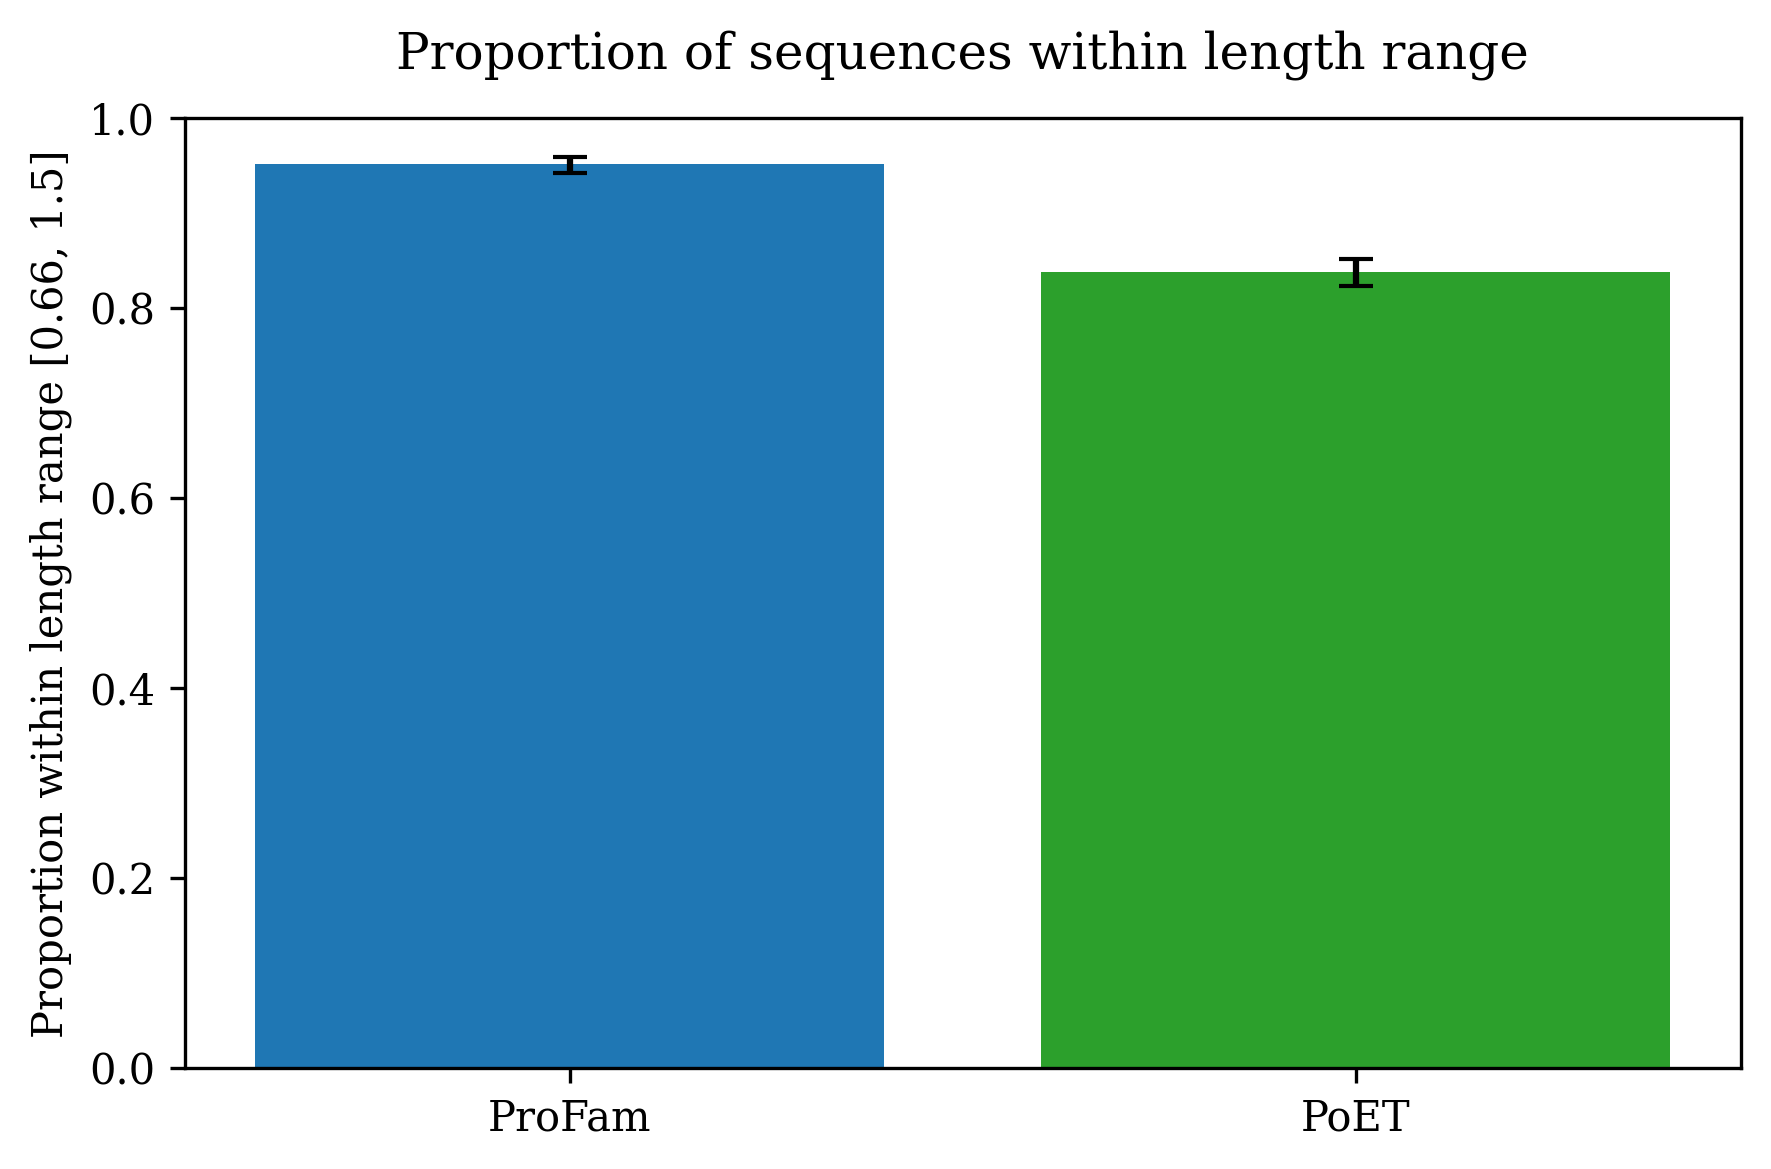
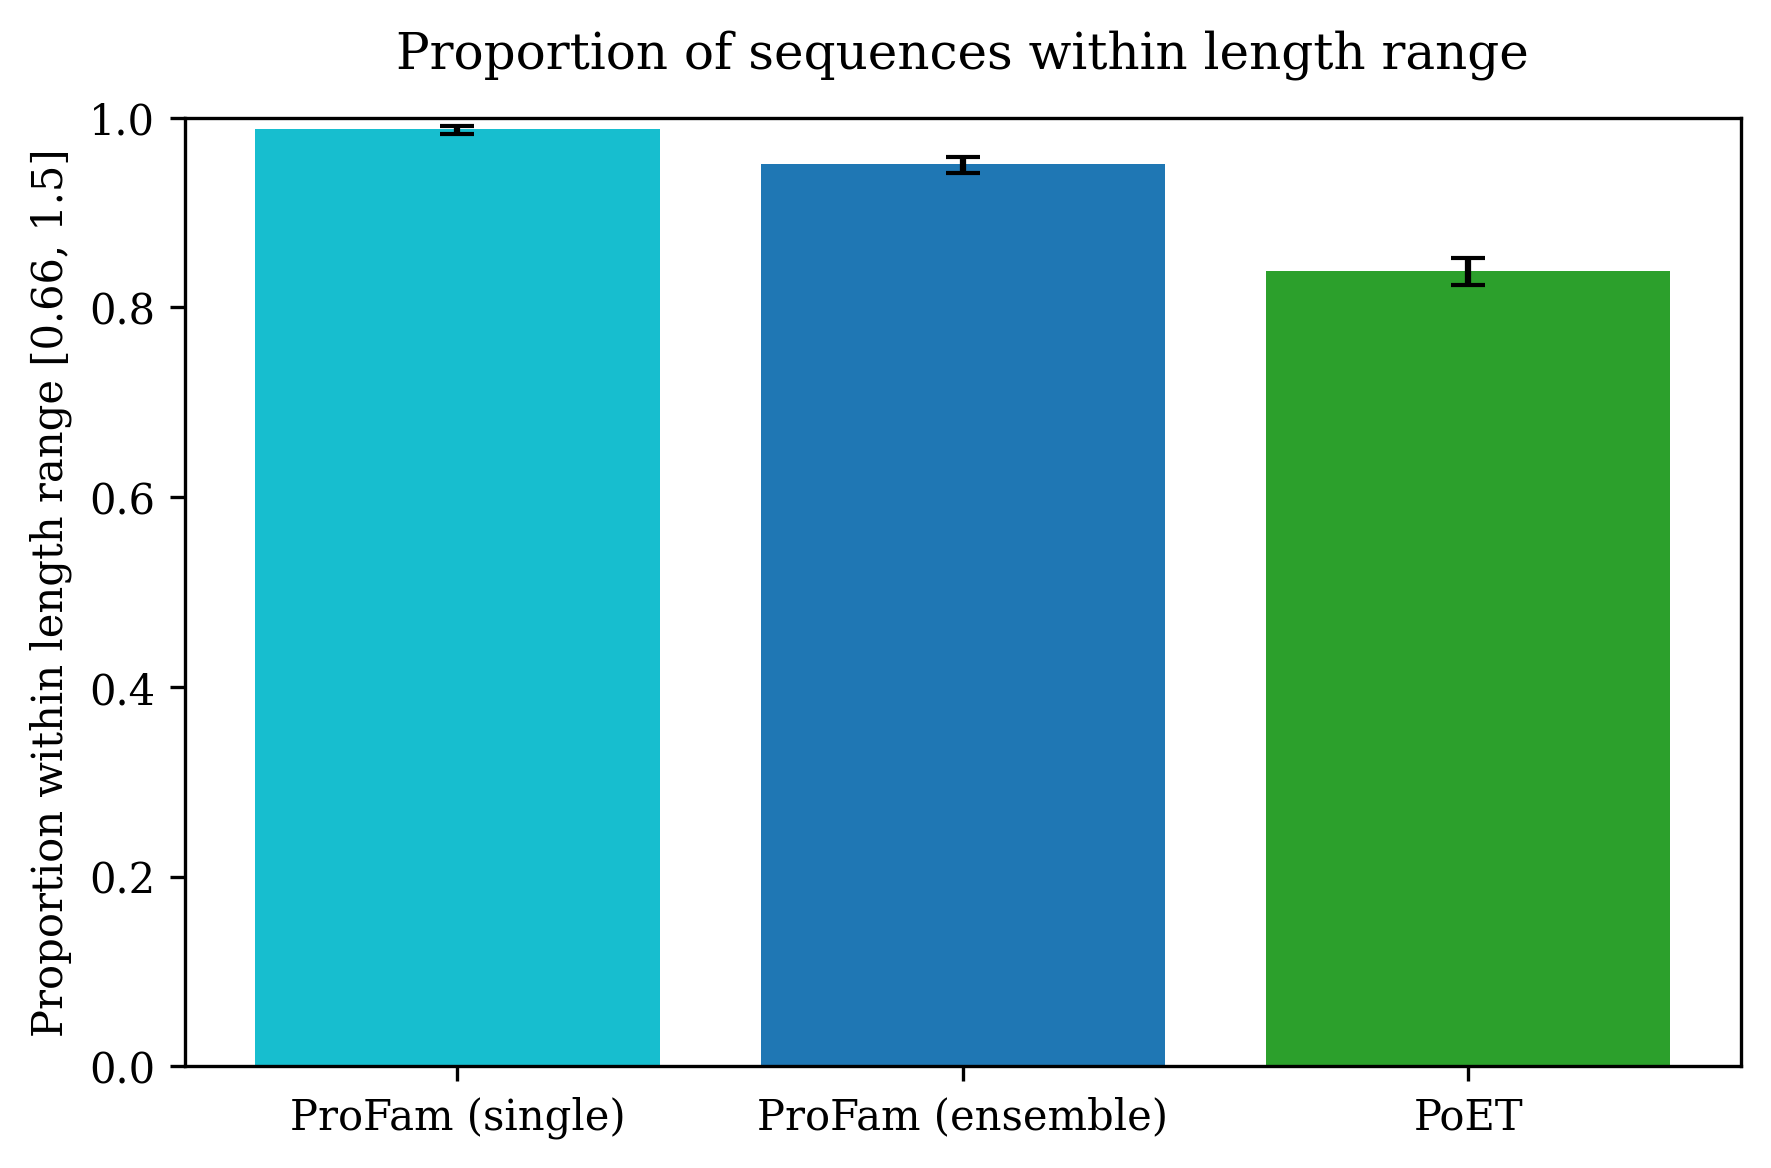
plotting scripts

diff --git a/scripts/evaluate_generated_sequences.py b/scripts/evaluate_generated_sequences.py
@@ -83,14 +83,14 @@ def evaluate_generated_sequences_profam_on_ec_single_sequence():
     all_results = []
     completed_ec_nums = []
     
-    # generated_fasta_pattern = "../sampling_results/profam_ec_single_seq_synthetic_msas/*_generated.fasta"
-    # csv_save_path = "../sampling_results/profam_ec_single_seq_synthetic_msas/profam_sequence_only_evaluation_ec_single_sequence.csv"
+    generated_fasta_pattern = "../sampling_results/profam_ec_single_seq_synthetic_msas/*_generated.fasta"
+    csv_save_path = "../sampling_results/profam_ec_single_seq_synthetic_msas/profam_sequence_only_evaluation_ec_single_sequence.csv"
 
     # generated_fasta_pattern = "../sampling_results/profam_ec_multi_seq_synthetic_msas_no_ensemble/*_generated.fasta"
     # csv_save_path = "../sampling_results/profam_ec_multi_seq_synthetic_msas_no_ensemble/profam_sequence_only_evaluation_ec_multi_sequence.csv"
 
-    generated_fasta_pattern = "../sampling_results/profam_ec_multi_seq_synthetic_msas/*_generated.fasta"
-    csv_save_path = "../sampling_results/profam_ec_multi_seq_synthetic_msas/profam_sequence_only_evaluation_ec_multi_sequence_with_ensemble.csv"
+    # generated_fasta_pattern = "../sampling_results/profam_ec_multi_seq_synthetic_msas/*_generated.fasta"
+    # csv_save_path = "../sampling_results/profam_ec_multi_seq_synthetic_msas/profam_sequence_only_evaluation_ec_multi_sequence_with_ensemble.csv"
 
     if os.path.exists(csv_save_path):
         df = pd.read_csv(csv_save_path)
@@ -165,7 +165,8 @@ if __name__ == "__main__":
     # generated_pdb_pattern = "../sampling_results/colabfold_outputs/foldseek_*/gen0_unrelaxed_rank_001_alphafold2_ptm_model_1_seed_000.pdb"
     # generated_pdb_pattern = "../sampling_results/colabfold_outputs/foldseek_combined_val_test_2025_09_17_seq_sim_lt_0p5/*/*.pdb"
     # generated_pdb_pattern = "../sampling_results/poet/poet_colabfold_outputs_seq_sim_lt_0p5/*/*unrelaxed_rank_001_alphafold2_ptm_model_1_seed_000.pdb"
-    # structural_csv = "/".join(generated_pdb_pattern.split("/")[:-2]) + "/structural_evaluation.csv"
+    generated_pdb_pattern = "../sampling_results/colabfold_outputs/foldseek_combined_val_test_poet_exact_prompts_no_ensemble_2025_10_01/*/*.pdb"
+    structural_csv = "/".join(generated_pdb_pattern.split("/")[:-2]) + "/structural_evaluation.csv"
     # # structural_csv = "../sampling_results/colabfold_outputs/foldseek_combined_val_test_2025_09_17_seq_sim_lt_0p5/structural_evaluation.csv"
     # # evaluate_generated_sequences(generated_fasta_pattern, sequence_only_csv_save_path)
     # # evaluate_generated_sequences_poet()
@@ -173,104 +174,104 @@ if __name__ == "__main__":
     # # elif "/colabfold_outputs/foldseek_" in generated_pdb_pattern:
     # #     structural_csv = "../sampling_results/colabfold_outputs/profam_structural_evaluation.csv"
     # # generated_pdb_pattern = "../sampling_results/poet_colabfold_outputs/foldseek_*/generated_9_*_ptm_model_1_seed_000.pdb"
-    # gt_pdb_pattern = "../data/val_test_v2_pdbs/foldseek/*.pdb"
-    # generated_pdbs = glob.glob(generated_pdb_pattern)
-    # print(f"Found {len(generated_pdbs)} generated pdb files")
-    # if len(generated_pdbs) == 0:
-    #     raise FileNotFoundError(f"No generated pdb files found for glob: {generated_pdb_pattern}")
-    # gt_pdbs = glob.glob(gt_pdb_pattern)
-    # rows = []
-    # if os.path.exists(structural_csv):
-    #     df = pd.read_csv(structural_csv)
-    #     print(f"Found {len(df)} rows in {structural_csv}")
-    #     rows = df.to_dict(orient="records")
-    # else:
-    #     df = pd.DataFrame(columns=["generated_id"])  # Ensure df always defined
-    # for i, generated_pdb in enumerate(generated_pdbs):
-    #     print(f"Processing {i} of {len(generated_pdbs)}")
-    #     if "_test_" in generated_pdb:
-    #         split = "test"
-    #     elif "_val_" in generated_pdb:
-    #         split = "val"
-    #     elif "_random_" in generated_pdb:
-    #         split = "random"
-    #     else:
-    #         split = None
-    #     generated_id = generated_pdb.split("/")[-2].split("_")[-1]
-    #     if len(df) > 0 and generated_pdb in df["generated_pdb"].values:
+    gt_pdb_pattern = "../data/val_test_v2_pdbs/foldseek/*.pdb"
+    generated_pdbs = glob.glob(generated_pdb_pattern)
+    print(f"Found {len(generated_pdbs)} generated pdb files")
+    if len(generated_pdbs) == 0:
+        raise FileNotFoundError(f"No generated pdb files found for glob: {generated_pdb_pattern}")
+    gt_pdbs = glob.glob(gt_pdb_pattern)
+    rows = []
+    if os.path.exists(structural_csv):
+        df = pd.read_csv(structural_csv)
+        print(f"Found {len(df)} rows in {structural_csv}")
+        rows = df.to_dict(orient="records")
+    else:
+        df = pd.DataFrame(columns=["generated_id"])  # Ensure df always defined
+    for i, generated_pdb in enumerate(generated_pdbs):
+        print(f"Processing {i} of {len(generated_pdbs)}")
+        if "_test_" in generated_pdb:
+            split = "test"
+        elif "_val_" in generated_pdb:
+            split = "val"
+        elif "_random_" in generated_pdb:
+            split = "random"
+        else:
+            split = None
+        generated_id = generated_pdb.split("/")[-2].split("_")[-1]
+        if len(df) > 0 and generated_pdb in df["generated_pdb"].values:
 
-    #         print(f"Skipping {generated_id} because it already exists in {structural_csv}")
-    #         continue
-    #     prompt_fasta_path = glob.glob(f"../data/val_test_v2_fastas/foldseek/*/{generated_id}*.fasta")[0]
-    #     prompt_pdb_paths = get_pdb_paths_from_fasta_path(prompt_fasta_path, gt_pdbs)
-    #     # Load generated protein and compute mean pLDDT
-    #     try:
-    #         gen_prot = Protein.from_pdb(generated_pdb, bfactor_is_plddt=True)
-    #         mean_plddt = float(np.mean(gen_prot.plddt)) if gen_prot.plddt is not None else float("nan")
-    #     except Exception:
-    #         gen_prot = None
-    #         mean_plddt = float("nan")
+            print(f"Skipping {generated_id} because it already exists in {structural_csv}")
+            continue
+        prompt_fasta_path = glob.glob(f"../data/val_test_v2_fastas/foldseek/combined_val_test/{generated_id}*.fasta")[0]
+        prompt_pdb_paths = get_pdb_paths_from_fasta_path(prompt_fasta_path, gt_pdbs)
+        print(f"number of prompt pdb paths: {len(prompt_pdb_paths)}")
+        try:
+            gen_prot = Protein.from_pdb(generated_pdb, bfactor_is_plddt=True)
+            mean_plddt = float(np.mean(gen_prot.plddt)) if gen_prot.plddt is not None else float("nan")
+        except Exception:
+            gen_prot = None
+            mean_plddt = float("nan")
 
-    #     # Sequence identity stats (generated vs all prompt sequences)
-    #     try:
-    #         prompt_records = list(SeqIO.parse(prompt_fasta_path, "fasta"))
-    #         prompt_seqs = [str(r.seq).replace("-", "") for r in prompt_records]
-    #         gen_seq = gen_prot.sequence if gen_prot is not None else ""
-    #         seq_ids = [pairwise_sequence_identity(gen_seq, pseq) for pseq in prompt_seqs] if len(prompt_seqs) > 0 and len(gen_seq) > 0 else []
-    #     except Exception:
-    #         seq_ids = []
+        # Sequence identity stats (generated vs all prompt sequences)
+        try:
+            prompt_records = list(SeqIO.parse(prompt_fasta_path, "fasta"))
+            prompt_seqs = [str(r.seq).replace("-", "") for r in prompt_records]
+            gen_seq = gen_prot.sequence if gen_prot is not None else ""
+            seq_ids = [pairwise_sequence_identity(gen_seq, pseq) for pseq in prompt_seqs] if len(prompt_seqs) > 0 and len(gen_seq) > 0 else []
+        except Exception:
+            seq_ids = []
 
-    #     def _agg_stats(values):
-    #         arr = np.array(values, dtype=float)
-    #         if arr.size == 0:
-    #             return float("nan"), float("nan"), float("nan")
-    #         return float(np.nanmin(arr)), float(np.nanmax(arr)), float(np.nanmean(arr))
+        def _agg_stats(values):
+            arr = np.array(values, dtype=float)
+            if arr.size == 0:
+                return float("nan"), float("nan"), float("nan")
+            return float(np.nanmin(arr)), float(np.nanmax(arr)), float(np.nanmean(arr))
 
-    #     seq_id_min, seq_id_max, seq_id_mean = _agg_stats(seq_ids)
+        seq_id_min, seq_id_max, seq_id_mean = _agg_stats(seq_ids)
 
-    #     # Structural comparisons vs all prompt PDBs
-    #     tm_scores = []
-    #     lddt_scores = []
-    #     if gen_prot is not None:
-    #         for pdb_path in prompt_pdb_paths:
-    #             try:
-    #                 prompt_prot = Protein.from_pdb(pdb_path, bfactor_is_plddt=True)
-    #             except Exception:
-    #                 continue
-    #             try:
-    #                 tm_val = tm_score(gen_prot, prompt_prot)
-    #                 tm_scores.append(float(tm_val))
-    #             except Exception:
-    #                 tm_scores.append(float("nan"))
-    #             try:
-    #                 lddt_val = lddt(gen_prot, prompt_prot)
-    #                 lddt_scores.append(float(lddt_val))
-    #             except Exception:
-    #                 lddt_scores.append(float("nan"))
+        # Structural comparisons vs all prompt PDBs
+        tm_scores = []
+        lddt_scores = []
+        if gen_prot is not None:
+            for pdb_path in prompt_pdb_paths:
+                try:
+                    prompt_prot = Protein.from_pdb(pdb_path, bfactor_is_plddt=True)
+                except Exception:
+                    continue
+                try:
+                    tm_val = tm_score(gen_prot, prompt_prot)
+                    tm_scores.append(float(tm_val))
+                except Exception:
+                    tm_scores.append(float("nan"))
+                try:
+                    lddt_val = lddt(gen_prot, prompt_prot)
+                    lddt_scores.append(float(lddt_val))
+                except Exception:
+                    lddt_scores.append(float("nan"))
 
-    #     tm_min, tm_max, tm_mean = _agg_stats([v for v in tm_scores if not np.isnan(v)])
-    #     lddt_min, lddt_max, lddt_mean = _agg_stats([v for v in lddt_scores if not np.isnan(v)])
+        tm_min, tm_max, tm_mean = _agg_stats([v for v in tm_scores if not np.isnan(v)])
+        lddt_min, lddt_max, lddt_mean = _agg_stats([v for v in lddt_scores if not np.isnan(v)])
 
-    #     rows.append({
-    #         "generated_id": generated_id,
-    #         "split": split,
-    #         "generated_pdb": generated_pdb,
-    #         "prompt_fasta": prompt_fasta_path,
-    #         "num_prompt_pdbs": len(prompt_pdb_paths),
-    #         "mean_plddt": mean_plddt,
-    #         "tm_min": tm_min,
-    #         "tm_mean": tm_mean,
-    #         "tm_max": tm_max,
-    #         "lddt_min": lddt_min,
-    #         "lddt_mean": lddt_mean,
-    #         "lddt_max": lddt_max,
-    #         "seq_identity_min": seq_id_min,
-    #         "seq_identity_mean": seq_id_mean,
-    #         "seq_identity_max": seq_id_max,
-    #     })
+        rows.append({
+            "generated_id": generated_id,
+            "split": split,
+            "generated_pdb": generated_pdb,
+            "prompt_fasta": prompt_fasta_path,
+            "num_prompt_pdbs": len(prompt_pdb_paths),
+            "mean_plddt": mean_plddt,
+            "tm_min": tm_min,
+            "tm_mean": tm_mean,
+            "tm_max": tm_max,
+            "lddt_min": lddt_min,
+            "lddt_mean": lddt_mean,
+            "lddt_max": lddt_max,
+            "seq_identity_min": seq_id_min,
+            "seq_identity_mean": seq_id_mean,
+            "seq_identity_max": seq_id_max,
+        })
 
-    # # Save structural evaluation CSV aggregated across all generated 
+    # Save structural evaluation CSV aggregated across all generated 
 
-    #     os.makedirs(os.path.dirname(structural_csv), exist_ok=True)
-    #     pd.DataFrame(rows).to_csv(structural_csv, index=False)
-    # make_structure_sequence_similarity_plots(structural_csv)
+        os.makedirs(os.path.dirname(structural_csv), exist_ok=True)
+        pd.DataFrame(rows).to_csv(structural_csv, index=False)
+    make_structure_sequence_similarity_plots(structural_csv)

diff --git a/scripts/adhoc_analysis/plot_min_max_length_ratio_poet_and_profam.py b/scripts/adhoc_analysis/plot_min_max_length_ratio_poet_and_profam.py
@@ -11,7 +11,12 @@ mpl.rcParams['font.family'] = 'serif'
 mpl.rcParams['font.serif'] = ['Times New Roman', 'Times', 'DejaVu Serif', 'serif']
 mpl.rcParams['mathtext.fontset'] = 'stix'
 
-colors = {"ProFam": "#1f77b4", "PoET": "#2ca02c", "Random": "#808080"}
+colors = {
+    "ProFam (single)": "#17becf",   # teal
+    "ProFam (ensemble)": "#1f77b4", # blue
+    "PoET": "#2ca02c",             # green
+    "Random": "#808080",
+}
 
 # profam_df = pd.read_csv("/mnt/disk2/cath_plm/sampling_results/profam_sequence_only_evaluation.csv")
 # profam_df = profam_df[profam_df['aligned_generation_path'].str.contains("ensemble")]
@@ -35,12 +40,14 @@ colors = {"ProFam": "#1f77b4", "PoET": "#2ca02c", "Random": "#808080"}
 # bp=1
 
 def make_barplot_proportion_within_length_range(
-    profam_df,
+    profam_single_df,
+    profam_ensemble_df,
     poet_df,
     min_proportion=0.66,
     max_proportion=1.5,
     include_ci=True,
     save_path=None,
+    title_suffix=None,
 ):
     """
     Plot the proportion of generated sequences whose lengths fall within
@@ -70,7 +77,11 @@ def make_barplot_proportion_within_length_range(
         return low, high
 
     results = []
-    for name, df in [("ProFam", profam_df), ("PoET", poet_df)]:
+    for name, df in [
+        ("ProFam (single)", profam_single_df),
+        ("ProFam (ensemble)", profam_ensemble_df),
+        ("PoET", poet_df),
+    ]:
         df_filt = df.copy()
         # Ensure finite values
         df_filt = df_filt[np.isfinite(df_filt.get("coverage_min", np.nan)) & np.isfinite(df_filt.get("coverage_max", np.nan))]
@@ -99,59 +110,69 @@ def make_barplot_proportion_within_length_range(
     plt.bar(labels, props, color=bar_colors, yerr=yerr, capsize=4)
     plt.ylim(0, 1.0)
     plt.ylabel(f"Proportion within length range [{min_proportion}, {max_proportion}]")
-    plt.title("Proportion of sequences within length range", pad=12)
+    title_text = "Proportion of sequences within length range"
+    if title_suffix:
+        title_text = f"{title_text} — {title_suffix}"
+    plt.title(title_text, pad=12)
     plt.tight_layout()
 
     if save_path is None:
         min_str = str(min_proportion).replace(".", "p")
         max_str = str(max_proportion).replace(".", "p")
-        save_path = f"plots_for_paper/proportion_within_length_range_{min_str}_{max_str}_no_ensemble.png"
+        save_path = f"plots_for_paper/proportion_within_length_range_{min_str}_{max_str}.png"
     os.makedirs(os.path.dirname(save_path), exist_ok=True)
     plt.savefig(save_path, dpi=300, bbox_inches="tight")
     plt.close()
 
-pattern = "../sampling_results/foldseek_*/*ensemble*/alignments/*generated_seq_stats.csv"
-csv_paths = glob.glob(pattern)
-df = pd.concat([pd.read_csv(csv_path) for csv_path in csv_paths])
-min_ratio_profam = np.clip((df.coverage_max ** -1).to_numpy(), 0, 4)
+pattern_ensemble = "../sampling_results/foldseek_*/*ensemble*/alignments/*generated_seq_stats.csv"
+pattern_single = "../sampling_results/foldseek_*/*single*/alignments/*generated_seq_stats.csv"
+csv_paths = glob.glob(pattern_ensemble)
+df_ensemble = pd.concat([pd.read_csv(csv_path) for csv_path in csv_paths]) if csv_paths else pd.DataFrame()
+csv_paths = glob.glob(pattern_single)
+df_single = pd.concat([pd.read_csv(csv_path) for csv_path in csv_paths]) if csv_paths else pd.DataFrame()
+df_combined = pd.concat([df_ensemble, df_single], ignore_index=True) if not df_ensemble.empty or not df_single.empty else pd.DataFrame()
+min_ratio_profam = np.clip((df_combined.coverage_max ** -1).to_numpy(), 0, 4) if not df_combined.empty else np.array([])
 poet_pattern = "../sampling_results/poet/poet_foldseek_*/generated_sequences_foldseek_*/alignments/*_seq_stats.csv"
 poet_csv_paths = glob.glob(poet_pattern)
-poet_df = pd.concat([pd.read_csv(csv_path) for csv_path in poet_csv_paths])
+poet_df = pd.concat([pd.read_csv(csv_path) for csv_path in poet_csv_paths]) if poet_csv_paths else pd.DataFrame()
 
 # Barplot of proportion within specified length range (with error bars)
 make_barplot_proportion_within_length_range(
-    profam_df=df,
+    profam_single_df=df_single,
+    profam_ensemble_df=df_ensemble,
     poet_df=poet_df,
     min_proportion=0.66,
     max_proportion=1.5,
     include_ci=True,
 )
 
-min_ratio_poet = np.clip((poet_df.coverage_max ** -1).to_numpy(), 0, 4)
-edges_min = np.linspace(
-    min(min_ratio_profam.min(), min_ratio_poet.min()),
-    max(min_ratio_profam.max(), min_ratio_poet.max()),
-    101,
-)
-plt.hist(min_ratio_profam, bins=edges_min, label="ProFam", alpha=0.5, density=True)
-plt.hist(min_ratio_poet, bins=edges_min, label="PoET", alpha=0.5, density=True)
-plt.xlabel("min(prompt len) / generated seq len")
-plt.legend()
-plt.savefig("length_ratio_min_prompt_len_over_generated_len_poet_and_profam.png")
-plt.clf()
-bp=1
-len_ratio_profam = np.clip(df.coverage_min.to_numpy(), 0, 4)
-len_ratio_poet = np.clip(poet_df.coverage_min.to_numpy(), 0, 4)
-edges_max = np.linspace(
-    min(len_ratio_profam.min(), len_ratio_poet.min()),
-    max(len_ratio_profam.max(), len_ratio_poet.max()),
-    101,
-)
-plt.hist(len_ratio_profam, bins=edges_max, label="ProFam", alpha=0.5, density=True)
-plt.hist(len_ratio_poet, bins=edges_max, label="PoET", alpha=0.5, density=True)
-plt.xlabel("generated seq len / max(prompt len)")
-plt.legend()
-plt.savefig("length_ratio_generated_over_max_prompt_len_poet_and_profam.png")
-plt.clf()
+min_ratio_poet = np.clip((poet_df.coverage_max ** -1).to_numpy(), 0, 4) if not poet_df.empty else np.array([])
+if min_ratio_profam.size > 0 and min_ratio_poet.size > 0:
+    edges_min = np.linspace(
+        min(min_ratio_profam.min(), min_ratio_poet.min()),
+        max(min_ratio_profam.max(), min_ratio_poet.max()),
+        101,
+    )
+    plt.hist(min_ratio_profam, bins=edges_min, label="ProFam", alpha=0.5, density=True)
+    plt.hist(min_ratio_poet, bins=edges_min, label="PoET", alpha=0.5, density=True)
+    plt.xlabel("min(prompt len) / generated seq len")
+    plt.legend()
+    plt.savefig("length_ratio_min_prompt_len_over_generated_len_poet_and_profam.png")
+    plt.clf()
+
+len_ratio_profam = np.clip(df_combined.coverage_min.to_numpy(), 0, 4) if not df_combined.empty else np.array([])
+len_ratio_poet = np.clip(poet_df.coverage_min.to_numpy(), 0, 4) if not poet_df.empty else np.array([])
+if len_ratio_profam.size > 0 and len_ratio_poet.size > 0:
+    edges_max = np.linspace(
+        min(len_ratio_profam.min(), len_ratio_poet.min()),
+        max(len_ratio_profam.max(), len_ratio_poet.max()),
+        101,
+    )
+    plt.hist(len_ratio_profam, bins=edges_max, label="ProFam", alpha=0.5, density=True)
+    plt.hist(len_ratio_poet, bins=edges_max, label="PoET", alpha=0.5, density=True)
+    plt.xlabel("generated seq len / max(prompt len)")
+    plt.legend()
+    plt.savefig("length_ratio_generated_over_max_prompt_len_poet_and_profam.png")
+    plt.clf()
 
 

diff --git a/scripts/adhoc_analysis/compare_profam_poet_structural_comparison_single_ensemble.py b/scripts/adhoc_analysis/compare_profam_poet_structural_comparison_single_ensemble.py
@@ -117,13 +117,16 @@ def make_structure_sequence_similarity_plots(
 
 if __name__ == "__main__":
     profam_csv = "../sampling_results/colabfold_outputs/profam_structural_evaluation.csv"
+    # profam_csv_single = "../sampling_results/colabfold_outputs/foldseek_combined_val_test_no_ensemble_2025_10_01/structural_evaluation.csv"
+    profam_csv_single = "../sampling_results/colabfold_outputs/foldseek_combined_val_test_poet_exact_prompts_no_ensemble_2025_10_01//structural_evaluation.csv"
     poet_csv = "../sampling_results/colabfold_outputs/poet_structural_eval/poet_structural_evaluation.csv"
     random_csv = "../sampling_results/randomly_mutated_sequences/random_colabfold_outputs/random_structural_evaluation.csv"
     profam_csv = "/mnt/disk2/cath_plm/sampling_results/colabfold_outputs/profam_structural_evaluation.csv"
 
     profam_df = pd.read_csv(profam_csv)
     print(f"ProFam df: {profam_df.shape}")
-    profam_df_single = profam_df[profam_df.generated_pdb.str.contains("single")]
+    # profam_df_single = profam_df[profam_df.generated_pdb.str.contains("single")]
+    profam_df_single = pd.read_csv(profam_csv_single)
     profam_df_ensemble = profam_df[profam_df.generated_pdb.str.contains("ensemble")]
     print(f"ProFam single df: {profam_df_single.shape}")
     print(f"ProFam ensemble df: {profam_df_ensemble.shape}")
